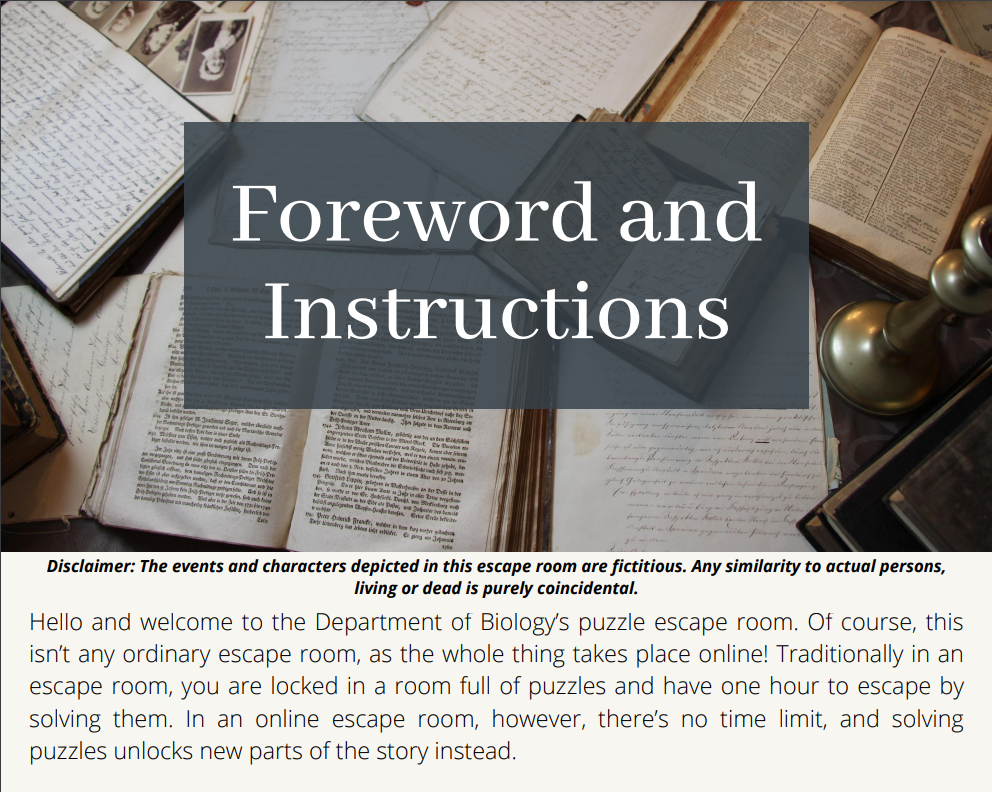
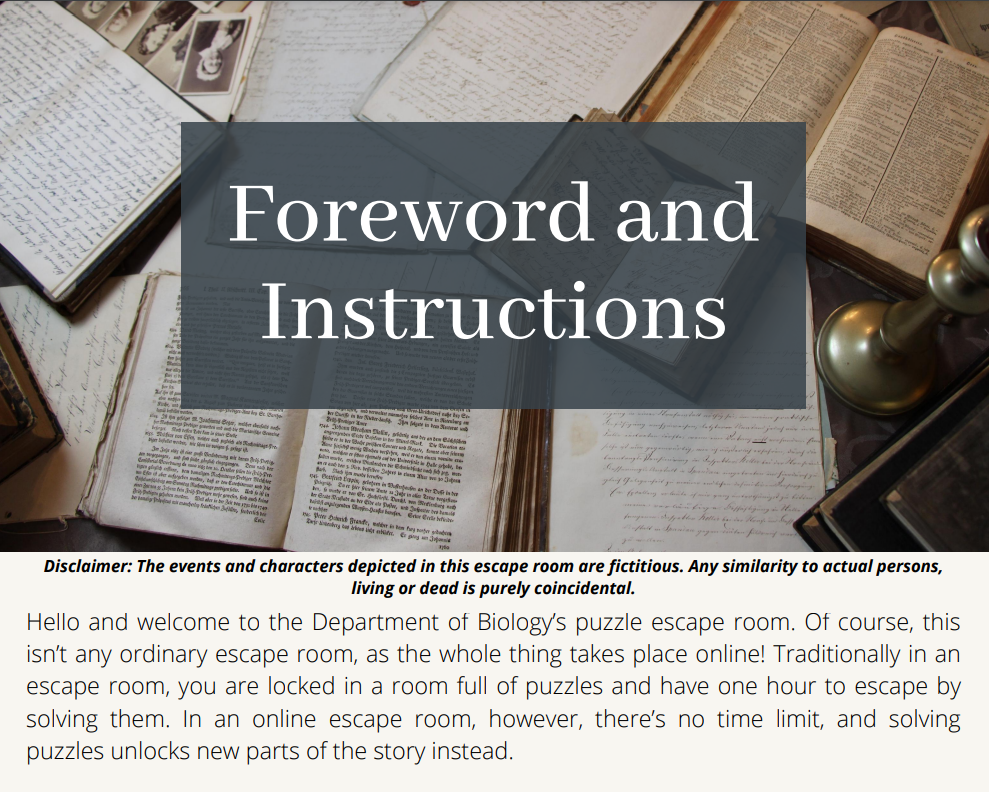
Broken link/image fixes

diff --git a/projects/mousecapade.html b/projects/mousecapade.html
@@ -384,9 +384,9 @@
       title: "Mousecapade",
       tags: ["Unity", "C#", "Game Design", "Narrative Design"],
       images: [
-        "/images/Mousecapade 1.PNG",
-        "/images/Mousecapade 2.PNG",
-        "/images/Mousecapade 3.PNG"
+        "/images/Mousecapade 1.png",
+        "/images/Mousecapade 2.png",
+        "/images/Mousecapade 3.png"
       ],
       description:
         `Created in C# Unity, Mousecapade is a first-person platformer and puzzle-solving game for children. Playing as a mouse, the aim of the game is to reach the tantalising cheese wheel on the kitchen counter, but there are obstacles in your way. Jump, climb and navigate your environment and get to the cheese, but be careful not to get the attention of the cat!

diff --git a/projects/live-polling-paper.html b/projects/live-polling-paper.html
@@ -398,7 +398,7 @@
       title: "Live Interactive Polling Research Paper",
       tags: ["Research", "Copywriting"],
       images: [
-        "/images/Live Interactive Polling.png"
+        "/images/Live Interactive Polling.PNG"
       ],
       description:
         `Research title, "Designing and Using Live Interactive Polling, How to Improve the Self-Efficacy of Remote Learning Students using Online Synchronous Polling by Changing Question Type, Intent, and Length." This internship was completed in collaboration between the University of York and Turning Technologies.

diff --git a/index.html b/index.html
@@ -534,7 +534,7 @@
           <p style="font-size:0.9rem; color:var(--text-muted); line-height:1.5;">
             A Mars rover survival game centred on UI-driven resource management and mission mini-games.
           </p>
-          <a href="projects/primary-detective.html" class="card-link">View project →</a>
+          <a href="projects/primary-directive.html" class="card-link">View project →</a>
         </div>
 
         <!-- MOUSECAPADE -->

diff --git a/projects/escape-room.html b/projects/escape-room.html
@@ -398,7 +398,7 @@
       title: "Online Puzzle Escape Room",
       tags: ["Creative Writing", "Game Design"],
       images: [
-        "/images/Escape Room 1.png",
+        "/images/Escape Room 1.PNG",
         "/images/Escape Room 2.png",
         "/images/Escape Room 3.png",
         "/images/Escape Room 4.png"
